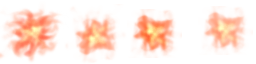
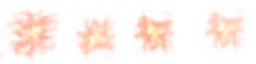
sprite tweaks

diff --git a/dist/bundle.js b/dist/bundle.js
@@ -4379,15 +4379,15 @@ exports.default = {
 			_this3.anchor.setTo(0.5);
 			game.physics.enable(_this3, _phaser2.default.Physics.ARCADE);
 			_this3.body.bounce.y = 0.2;
-			//this.body.gravity = -100;
+			//this.body.gravity.y = -1000
 			_this3.speed = 200;
 			_this3.arc = -300;
 			_this3.accuracy = 75;
-			_this3.animations.add('wave');
-			_this3.animations.play('wave', 30, true);
-			_this3.y += Math.random() * 20;
+			_this3.animations.add('bubble');
+			_this3.animations.play('bubble', 30, true);
+			_this3.x += Math.random() * 50;
 			_this3.powerUps = {};
-			_this3.alpha = 0;
+			_this3.alpha = 1;
 			return _this3;
 		}
 
@@ -4395,13 +4395,11 @@ exports.default = {
 			key: 'update',
 			value: function update() {
 				_get(Wave.prototype.__proto__ || Object.getPrototypeOf(Wave.prototype), 'update', this).call(this);
-				this.alpha += .25;
+				this.alpha -= .1;
 				if (this.powerUps.magicBow) {
-					this.body.velocity.y -= 1;
 					this.x += this.body.velocity.x * .05;
 					this.body.velocity.x -= Math.random() * (this.body.velocity.x * 2);
 				} else {
-					this.body.velocity.y += 3;
 					this.x += this.body.velocity.x * .35;
 					this.body.velocity.x -= Math.random() * (this.body.velocity.x * 2);
 				}
@@ -4883,9 +4881,10 @@ exports.default = {
 	},
 	blood: {
 		asset: 'blood',
-		count: 13,
-		bowCount: 15,
-		damage: 1
+		count: 100,
+		bowCount: 150,
+		damage: 1,
+		scale: .30
 	},
 	pebble: {
 		asset: 'rock',
@@ -11572,10 +11571,11 @@ var _class = function (_Phaser$State) {
       console.log(bow);
       //activeEffect = effectKeys[effectKeys.length-1]
       //activeSpell = spellKeys[spellKeys.length-1]
-      activeSpell = 'ectoplasm';
-      activeEffect = 'wall';
+      //activeSpell = 'inferno'
+      //activeEffect = 'wall'
+      //bow = false
 
-      this.instructions = this.add.text(this.world.centerX, this.world.height - 100, 'Generating a random spell from ' + combinations + ' possible combinations: ' + activeSpell + ' ' + activeEffect + ' ');
+      this.instructions = this.add.text(this.world.centerX, this.world.height - 100, 'Generating a random power  from ' + combinations + ' possible combinations: ' + activeSpell + ' ' + activeEffect + ' ');
       this.instructions.font = 'acme';
       this.instructions.padding.set(10, 16);
       this.instructions.fontSize = 20;

diff --git a/src/classes/Effects.js b/src/classes/Effects.js
@@ -57,31 +57,30 @@ export default {
 			this.anchor.setTo(0.5)
 			game.physics.enable(this, Phaser.Physics.ARCADE);
 			this.body.bounce.y = 0.2;
-			//this.body.gravity = -100;
+			//this.body.gravity.y = -1000
 			this.speed = 200;
 			this.arc = -300
 			this.accuracy = 75;
-			this.animations.add('wave');
-			this.animations.play('wave', 30, true);
-			this.y += Math.random() * 20;
+			this.animations.add('bubble');
+			this.animations.play('bubble', 30, true);
+			this.x += Math.random() * 50;
 			this.powerUps = {};
-			this.alpha = 0;
+			this.alpha = 1;
 		}
 
 		update() {
 			super.update()
-			this.alpha += .25;
+			this.alpha -= .1;
 			if (this.powerUps.magicBow) {
-				this.body.velocity.y -= 1;
 				this.x += this.body.velocity.x * .05;
 				this.body.velocity.x -= Math.random() * (this.body.velocity.x * 2);
 			}
 			else {
-				this.body.velocity.y += 3;
 				this.x += this.body.velocity.x * .35;
 				this.body.velocity.x -= Math.random() * (this.body.velocity.x * 2);
 			}
 		}
+
 	},
 	bubble: class Bubble extends Effect {
 		constructor({ game, x, y, asset }) {

diff --git a/src/states/Splash.js b/src/states/Splash.js
@@ -31,10 +31,11 @@ export default class extends Phaser.State {
     console.log(bow)
     //activeEffect = effectKeys[effectKeys.length-1]
     //activeSpell = spellKeys[spellKeys.length-1]
-    activeSpell = 'ectoplasm'
-    activeEffect = 'wall'
+    //activeSpell = 'inferno'
+    //activeEffect = 'wall'
+    //bow = false
     
-    this.instructions = this.add.text(this.world.centerX, this.world.height-100, `Generating a random spell from ${combinations} possible combinations: ${activeSpell} ${activeEffect} `);
+    this.instructions = this.add.text(this.world.centerX, this.world.height-100, `Generating a random power  from ${combinations} possible combinations: ${activeSpell} ${activeEffect} `);
     this.instructions.font = 'acme'
     this.instructions.padding.set(10, 16)
     this.instructions.fontSize = 20

diff --git a/src/classes/Spells.js b/src/classes/Spells.js
@@ -29,9 +29,10 @@ export default {
 	},
 	blood: {
 		asset: 'blood',
-		count: 13,
-		bowCount: 15,
+		count: 100,
+		bowCount: 150,
 		damage: 1,
+		scale: .30
 	},
 	pebble: {
 		asset: 'rock',
